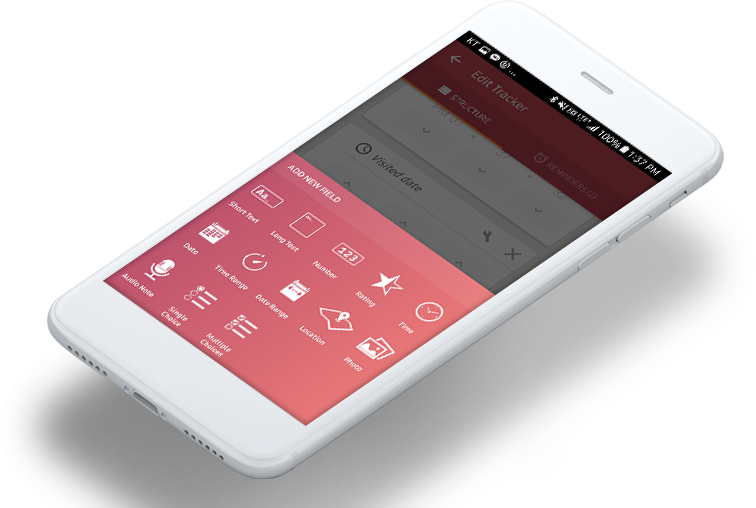
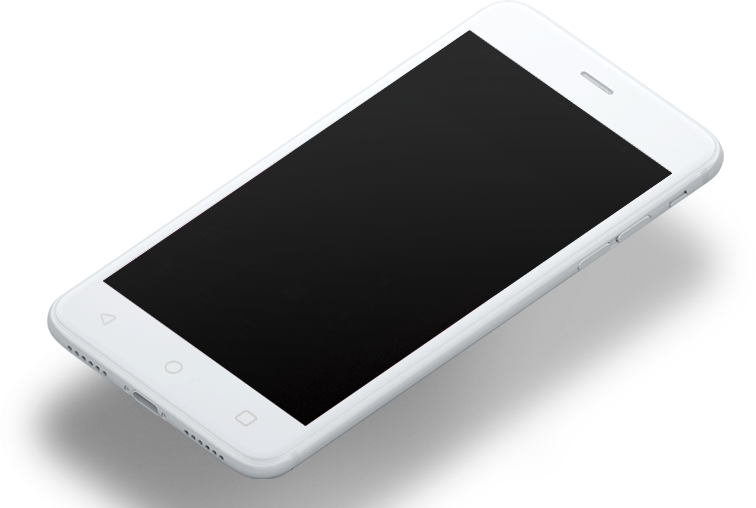
added slide show on smartphone

Changed region(s): [[0.1217, 0.0591, 0.8823, 0.8563], [0.213, 0.7087, 0.2434, 0.7382]]

diff --git a/src/app/main-banner-component/main-banner-component.component.scss b/src/app/main-banner-component/main-banner-component.component.scss
@@ -30,17 +30,68 @@
 
         @include respond_to_mobile(){
             position: inherit;
-            transform: scale(0.7, 0.7);
             bottom: inherit;
             right: inherit;
+            display: flex;
+            justify-content: center;
         }
 
         .smartphone_device{
+            position: relative;
             display: block;
             width: 756px;
             height: 508px;
             background-image: url("/assets/images/smartphone.png");
+            background-position: center;
+            background-repeat: no-repeat;
+            
+            @include respond_to_mobile(){
+                margin-left: -69px;
+                margin-right: -50px;
+                margin-top: -20px;
+                margin-bottom: -62px;
+            }
         }
+        
+
+            img{
+
+                top: 29px;
+                left: 103px;
+                position: absolute;
+                
+                @include respond_to_mobile(){
+                    top: inherit;
+                    left: inherit;    
+                    margin-top: 9px;
+                }
+            }
+
+            .slide{
+                animation: fade 30s linear infinite 0s;
+                z-index: 10;
+                opacity: 0;
+            }
+           
+            .slide:nth-child(2) {
+                animation-delay: 5s;
+            }
+
+            .slide:nth-child(3) {
+                animation-delay: 10s;
+            }
+
+            .slide:nth-child(4) {
+                animation-delay: 15s;
+            }
+            
+            .slide:nth-child(5) {
+                animation-delay: 20s;
+            }
+            
+            .slide:nth-child(6) {
+                animation-delay: 25s;
+            }
     }
 
     .description{

diff --git a/src/app/members/members.component.ts b/src/app/members/members.component.ts
@@ -15,10 +15,18 @@ export class MembersComponent implements OnInit {
       {
         name: "Young-Ho Kim",
         title: "Ph.D Candidate",
-        affiliation: "Seoul National University",
+        affiliation: "Seoul Nat'l University",
         email: "yhkim (at) hcil.snu.ac.kr",
         web: "http://younghokim.net",
         thumb:"yhkim_portrait.jpg"
+      },
+      {
+        name: "Jae Ho Jeon",
+        title: "Developer",
+        affiliation: "Kakao Corporation",
+        email: "jay.jh (at) kakaocorp.com",
+        web: "#",
+        thumb:"jhjeon_portrait.jpg"
       },
       {
         name: "Bongshin Lee",
@@ -31,7 +39,7 @@ export class MembersComponent implements OnInit {
       {
         name: "Eun Kyoung Choe",
         title: "Assistant Professor",
-        affiliation: "The Pennsylvania State University",
+        affiliation: "Penn State",
         email: "echoe (at) ist.psu.edu",
         web:"https://faculty.ist.psu.edu/choe/",
         thumb:"choe_portrait.png"
@@ -39,7 +47,7 @@ export class MembersComponent implements OnInit {
       {
         name: "Jinwook Seo",
         title: "Associate Professor",
-        affiliation: "Seoul National University",
+        affiliation: "Seoul Nat'l University",
         email: "jseo (at) snu.ac.kr",
         web:"http://hcil.snu.ac.kr/people/jinwook-seo",
         thumb:"jseo_portrait.jpg"

diff --git a/src/app/app.component.html b/src/app/app.component.html
@@ -4,16 +4,16 @@
     
     <ul id="gnb">
       <li>
-        About OmniTrack
+        <a href="#section_about">About OmniTrack</a>
       </li>
       <li>
-        Publication
+        <a href="#section_publication">Publications</a>
       </li>
       <li>
         Contribute
       </li>
       <li>
-        Team
+        <a href="#section_team">Team</a>
       </li>
     </ul>
   
@@ -22,11 +22,12 @@
 <app-main-banner-component></app-main-banner-component>
 <div id="main" class="center_content content_padded">
   <app-about></app-about>
+  <app-publications></app-publications>
   <app-members></app-members>
 </div>
 
 <div id="footer">
   <div id="footer_content">
-    Copyright (c) 2017 The OmniTrack Team. All Rights Reserved.
+    Copyright © 2017 The OmniTrack Team. All Rights Reserved.
   </div>
 </div>

diff --git a/src/app/main-banner-component/main-banner-component.component.html b/src/app/main-banner-component/main-banner-component.component.html
@@ -16,7 +16,14 @@
     </div>
 
     <div class="smartphone_wrapper">
-      <div class="smartphone_device"></div>
+      <div class="smartphone_device">
+      </div>
+        <img class="slide" src="/assets/images/smartphone_slide/smartphone_main_attributes.png">
+        <img class="slide" src="/assets/images/smartphone_slide/smartphone_main_services.png">
+        <img class="slide" src="/assets/images/smartphone_slide/smartphone_main_input.png">
+        <img class="slide" src="/assets/images/smartphone_slide/smartphone_main_item.png">
+        <img class="slide" src="/assets/images/smartphone_slide/smartphone_main_visualization.png">
+        <img class="slide" src="/assets/images/smartphone_slide/smartphone_main_trackers.png">
     </div>
   </div>
 </div>

diff --git a/src/app/publications/publications.component.spec.ts b/src/app/publications/publications.component.spec.ts
@@ -1,0 +1,25 @@
+import { async, ComponentFixture, TestBed } from '@angular/core/testing';
+
+import { PublicationsComponent } from './publications.component';
+
+describe('PublicationsComponent', () => {
+  let component: PublicationsComponent;
+  let fixture: ComponentFixture<PublicationsComponent>;
+
+  beforeEach(async(() => {
+    TestBed.configureTestingModule({
+      declarations: [ PublicationsComponent ]
+    })
+    .compileComponents();
+  }));
+
+  beforeEach(() => {
+    fixture = TestBed.createComponent(PublicationsComponent);
+    component = fixture.componentInstance;
+    fixture.detectChanges();
+  });
+
+  it('should be created', () => {
+    expect(component).toBeTruthy();
+  });
+});

diff --git a/src/app/app.module.ts b/src/app/app.module.ts
@@ -5,13 +5,15 @@ import { AppComponent } from './app.component';
 import { MainBannerComponentComponent } from './main-banner-component/main-banner-component.component';
 import { MembersComponent } from './members/members.component';
 import { AboutComponent } from './about/about.component';
+import { PublicationsComponent } from './publications/publications.component';
 
 @NgModule({
   declarations: [
     AppComponent,
     MainBannerComponentComponent,
     MembersComponent,
-    AboutComponent
+    AboutComponent,
+    PublicationsComponent
   ],
   imports: [
     BrowserModule

diff --git a/src/app/app.component.scss b/src/app/app.component.scss
@@ -44,6 +44,22 @@ $header_height: 60px;
         @include respond_to_mobile(){
             visibility: hidden;
         }
+
+        a{
+            text-decoration: none;
+        }
+
+        a:link{
+            color: inherit;
+        }
+
+        a:visited{
+            color: inherit;
+        }
+
+        a:hover{
+            color: $color_accent;
+        }
     }
 }
 
@@ -56,7 +72,7 @@ $header_height: 60px;
     #footer_content{
         text-align: center;
         color: white;
-        font-size: 12px;
+        font-size: 10pt;
     }
 }
 

diff --git a/src/app/members/members.component.scss b/src/app/members/members.component.scss
@@ -32,7 +32,7 @@ div.members{
         .member_content{
             width: 100%;
             padding: 5px;
-            font-size: 14px;
+            font-size: 11pt;
             display:inline-block;
             text-align: center;
             @include respond_to_mobile(){
@@ -71,7 +71,7 @@ div.members{
                 }
 
                 .name{
-                    font-size: 16px;
+                    font-size: 13pt;
                     font-weight: 600;
                 }
                 

diff --git a/src/index.html b/src/index.html
@@ -5,7 +5,7 @@
   <title>OmniTrack: A Flexible Personal Tracker</title>
   <base href="/">
 
-  <meta name="viewport" content="width=device-width, initial-scale=1">
+  <meta name="viewport" content="width=device-width, initial-scale=0.8">
   <link href="https://fonts.googleapis.com/css?family=Open+Sans:300,400,400i,600,700" rel="stylesheet">
   <link rel="icon" type="image/x-icon" href="favicon.ico">
 </head>

diff --git a/src/styles.scss b/src/styles.scss
@@ -107,3 +107,23 @@ p{
         font-size: 12pt;
     }
 }
+
+@keyframes
+fade {  0% {
+    animation-timing-function: ease-in;
+    opacity: 0;
+    }
+    3% {
+    animation-timing-function: ease-out;
+    opacity: 1;
+    }
+    17% {
+    opacity: 1;
+    }
+    20% {
+    opacity: 0;
+    }
+    100% {
+    opacity: 0;
+    }
+}

diff --git a/src/app/publications/publications.component.ts b/src/app/publications/publications.component.ts
@@ -1,0 +1,15 @@
+import { Component, OnInit } from '@angular/core';
+
+@Component({
+  selector: 'app-publications',
+  templateUrl: './publications.component.html',
+  styleUrls: ['./publications.component.scss']
+})
+export class PublicationsComponent implements OnInit {
+
+  constructor() { }
+
+  ngOnInit() {
+  }
+
+}

diff --git a/src/app/about/about.component.html b/src/app/about/about.component.html
@@ -1,4 +1,4 @@
-<h1>What Is OmniTrack?</h1>
+<h1 id="section_about">What Is OmniTrack?</h1>
 <div class="double_column">
   <div class="video">
     <iframe class="content" src="https://www.youtube.com/embed/7EEACOPfw2k" frameborder="0" allowfullscreen></iframe>
